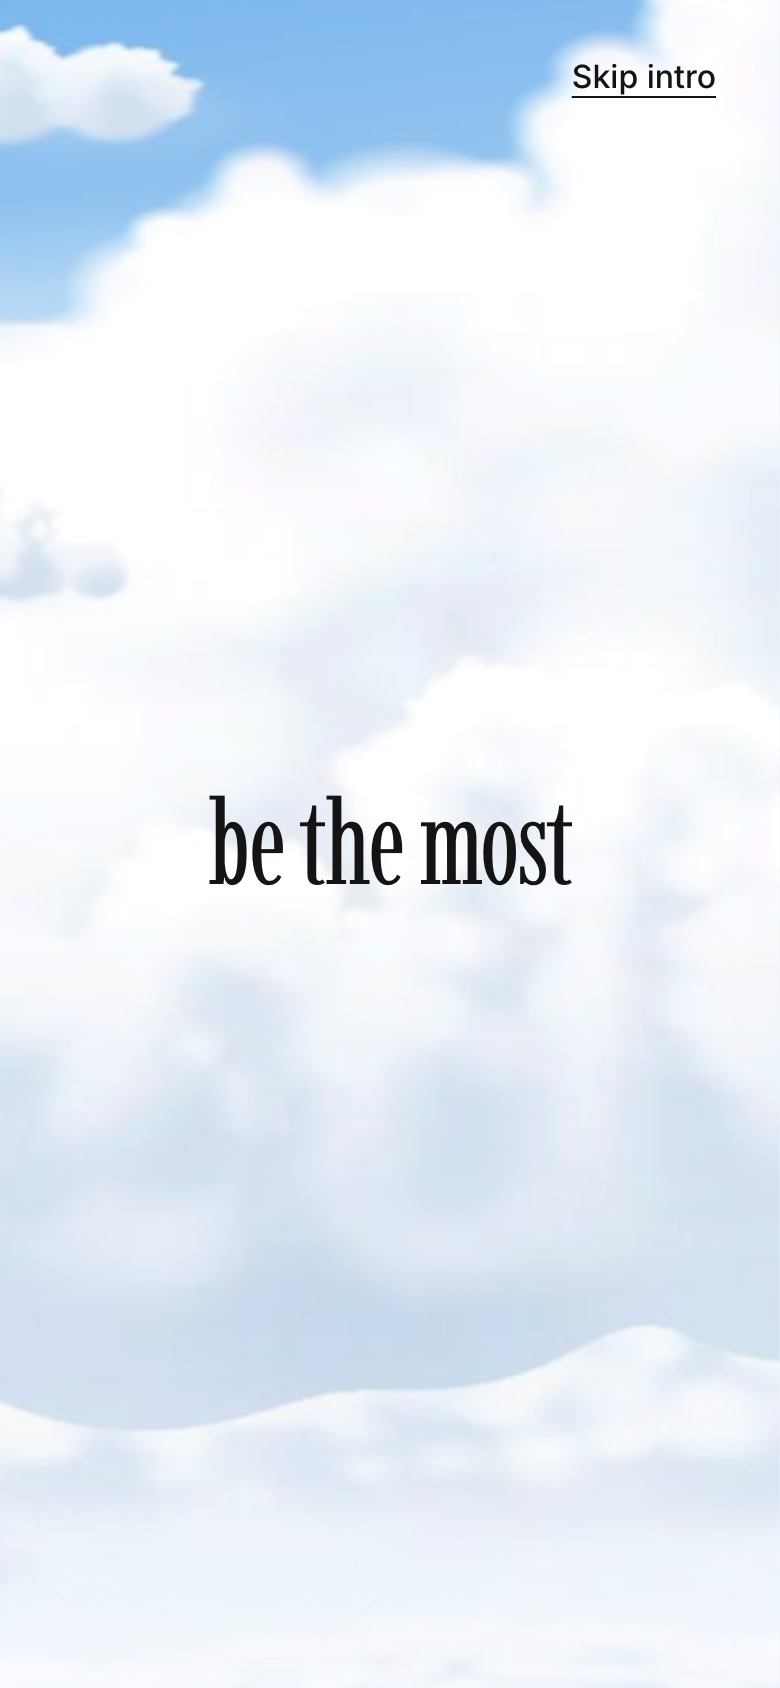
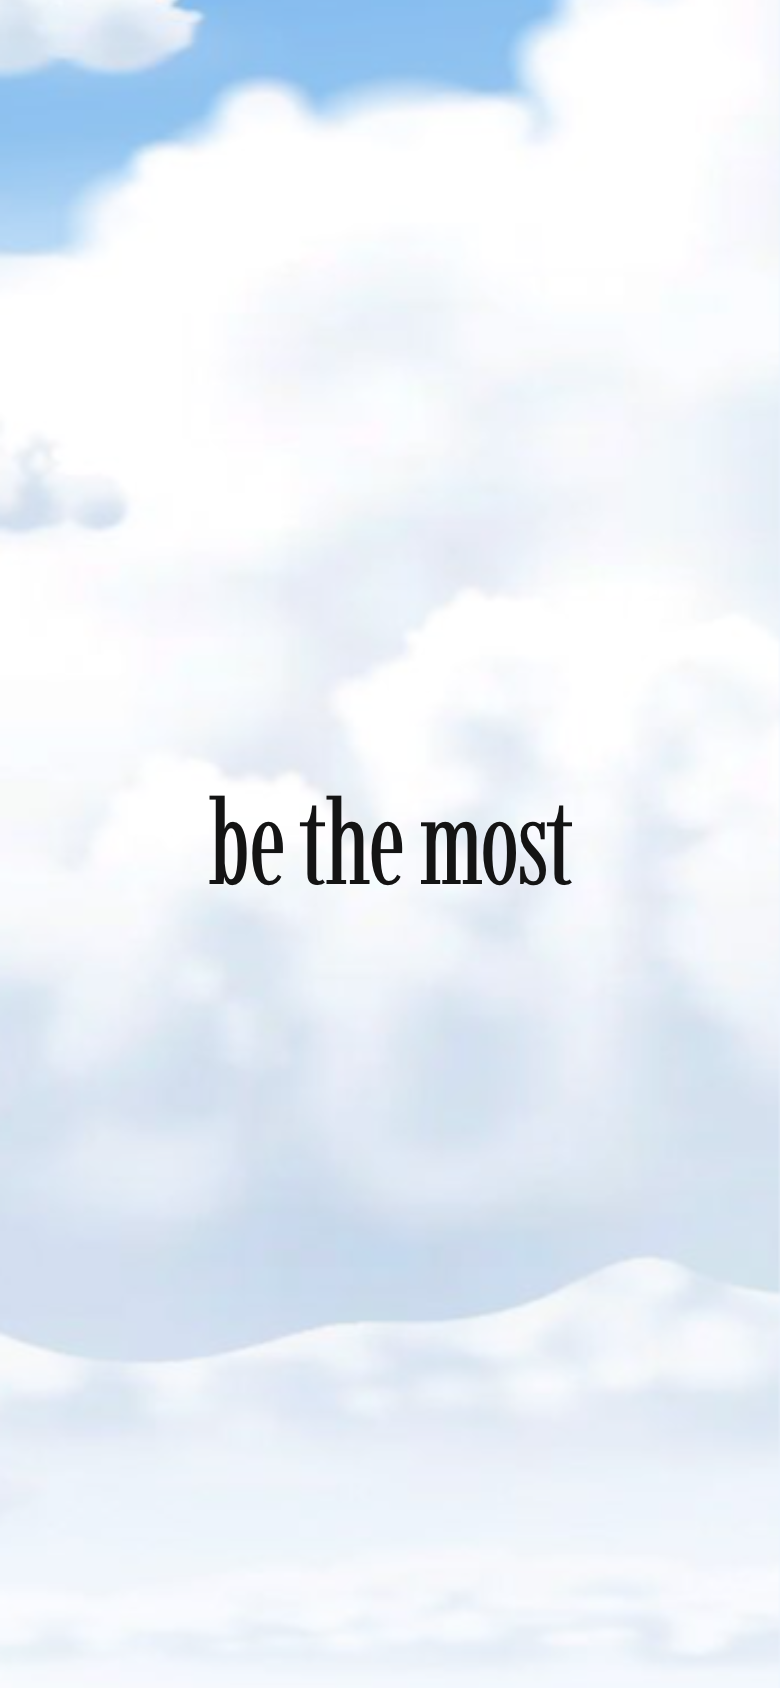
Intro: scroll-tied text, cursor tracking, closer clouds, swoop into hero

diff --git a/src/scroll.js b/src/scroll.js
@@ -9,17 +9,32 @@ gsap.registerPlugin(ScrollTrigger);
 const mix = (a, b, t) => a + (b - a) * t;
 const clamp01 = (t) => Math.min(1, Math.max(0, t));
 
+// The move from the clouds to the hero is not a straight line:
+// - the camera backs away fast at first, so the clouds rush off, then slows down
+// - it lifts its nose early, which keeps the far edge of the ground out of sight
+// - it drops with a soft start and a soft landing, so the hills rise in from the bottom at the end
+function swoop(from, to, t) {
+  const soft = t * t * (3 - 2 * t);
+  const fastThenSlow = 1 - Math.pow(1 - t, 3);
+  return {
+    rotX: mix(from.rotX, to.rotX, fastThenSlow),
+    y: mix(from.y, to.y, soft),
+    z: mix(from.z, to.z, fastThenSlow),
+  };
+}
+const straight = (from, to, t) => ({ rotX: mix(from.rotX, to.rotX, t), y: mix(from.y, to.y, t), z: mix(from.z, to.z, t) });
+
 // One entry per stretch of scroll. Later screens add entries here.
 const SEGMENTS = [
   // Intro, pinned: the camera sinks through the clouds while the four parts take turns.
-  { trigger: '#intro', start: 'top top', end: 'bottom bottom', from: POSES.introStart, to: POSES.introEnd, onProgress: showIntroPart },
-  // Intro scrolls away: the camera pulls back, the clouds fly off and the full scene with the hills appears.
-  { trigger: '#intro', start: 'bottom bottom', end: 'bottom top', from: POSES.introEnd, to: POSES.hero },
+  { trigger: '#intro', start: 'top top', end: 'bottom bottom', from: POSES.introStart, to: POSES.introEnd },
+  // Intro scrolls away: the camera pulls back fast and drops, the clouds fly off and the hills rise into view.
+  { trigger: '#intro', start: 'bottom bottom', end: 'bottom top', from: POSES.introEnd, to: POSES.hero, path: swoop },
 ];
 const progress = SEGMENTS.map(() => 0);
 let nudge = 0; // small extra progress used by the idle "dip" in intro.js
 
-// Cursor tracking at the hero: the camera leans a little toward the pointer.
+// Cursor tracking: the camera leans a little toward the pointer, in the intro and at the hero.
 // Same amounts the Spline file used before the site took over the camera.
 const TRACK = { slide: 120, lift: 30, tilt: 0.021, turn: 0.044, ease: 0.05 };
 const pointer = { x: 0, y: 0, targetX: 0, targetY: 0 }; // -1..1 from the screen center
@@ -30,8 +45,8 @@ function trackPointer() {
   pointer.y += (pointer.targetY - pointer.y) * TRACK.ease;
   applyCamera();
   const settled = Math.abs(pointer.targetX - pointer.x) < 0.001 && Math.abs(pointer.targetY - pointer.y) < 0.001;
-  // Stop the loop when the camera has caught up or the hero is not on screen.
-  if (settled || progress[1] === 0) { tracking = false; return; }
+  // Stop the loop when the camera has caught up.
+  if (settled) { tracking = false; return; }
   requestAnimationFrame(trackPointer);
 }
 
@@ -39,7 +54,7 @@ function onPointerMove(event) {
   if (event.pointerType === 'touch') return;
   pointer.targetX = (event.clientX / window.innerWidth) * 2 - 1;
   pointer.targetY = (event.clientY / window.innerHeight) * 2 - 1;
-  if (!tracking && progress[1] > 0) { tracking = true; requestAnimationFrame(trackPointer); }
+  if (!tracking) { tracking = true; requestAnimationFrame(trackPointer); }
 }
 
 function applyCamera() {
@@ -48,17 +63,18 @@ function applyCamera() {
   progress.forEach((value, i) => { if (value > 0) index = i; });
   const segment = SEGMENTS[index];
   const t = clamp01(progress[index] + (index === 0 ? nudge : 0));
-  // Cursor tracking fades in as the hero arrives (0 during the intro, full at the hero).
-  const follow = progress[1];
+  // Cursor tracking runs through the intro and the hero alike.
+  const follow = 1;
+  const at = (segment.path || straight)(segment.from, segment.to, t);
   setCameraPose({
-    rotX: mix(segment.from.rotX, segment.to.rotX, t) - pointer.y * TRACK.tilt * follow,
-    y: mix(segment.from.y, segment.to.y, t) - pointer.y * TRACK.lift * follow,
-    z: mix(segment.from.z, segment.to.z, t),
+    rotX: at.rotX - pointer.y * TRACK.tilt * follow,
+    y: at.y - pointer.y * TRACK.lift * follow,
+    z: at.z,
     dx: pointer.x * TRACK.slide * follow,
     rotY: -pointer.x * TRACK.turn * follow,
   });
   // The static image slides the same way, for phones and before the scene has loaded.
-  setFallbackShift(clamp01((progress[0] * 2.8 + progress[1]) / 3.8)); // weighted by scroll length
+  setFallbackShift(clamp01((progress[0] * 4.4 + progress[1]) / 5.4)); // weighted by scroll length
 }
 
 // Lets intro.js push the camera a little along its path and back.
@@ -67,18 +83,38 @@ export function setCameraNudge(value) {
   applyCamera();
 }
 
-// Intro text: four parts, one visible at a time. CSS does the animation (intro.css);
-// this only says which part is active, which are already passed and which still wait.
-let activePart = -1;
-function showIntroPart(t) {
-  const parts = document.querySelectorAll('.intro__part');
-  const index = Math.min(parts.length - 1, Math.floor(t * parts.length));
-  if (index === activePart) return;
-  activePart = index;
-  parts.forEach((part, i) => {
-    part.classList.toggle('is-active', i === index);
-    part.classList.toggle('is-before', i < index);
+// Intro text: four parts, one visible at a time, tied to scroll distance.
+// Each part owns one equal stretch of the pinned scroll: it rises in over the first 28%,
+// rests, then drifts up and fades slowly over the last 42%. The next part only starts
+// once the old one is gone, so a part cannot be skipped without being seen leaving.
+const PART = { in: 0.28, outStart: 0.58, out: 0.42, shift: 22, scale: 0.98, smoothing: 0.8 };
+
+function buildIntroText() {
+  const parts = gsap.utils.toArray('.intro__part');
+  if (!parts.length) return;
+  const timeline = gsap.timeline({
+    defaults: { overwrite: false },
+    // smoothing: the text takes 0.8 s to catch up with the scrollbar, so a fast flick still plays each change
+    scrollTrigger: { trigger: '#intro', start: 'top top', end: 'bottom bottom', scrub: PART.smoothing },
   });
+  parts.forEach((part, i) => {
+    const last = i === parts.length - 1;
+    if (i === 0) {
+      gsap.set(part, { opacity: 1 });
+    } else {
+      timeline.fromTo(part,
+        { opacity: 0, yPercent: PART.shift, scale: PART.scale },
+        { opacity: 1, yPercent: 0, scale: 1, duration: PART.in, ease: 'power2.out' },
+        i + 0.02);
+    }
+    if (!last) {
+      timeline.to(part,
+        { opacity: 0, yPercent: -PART.shift, scale: PART.scale, duration: PART.out, ease: 'power1.in' },
+        i + PART.outStart);
+    }
+  });
+  // Pad the timeline so the last part rests until the intro unpins.
+  timeline.to({}, { duration: 0.001 }, parts.length - 0.001);
 }
 
 export function initScroll() {
@@ -87,15 +123,16 @@ export function initScroll() {
 
   window.addEventListener('pointermove', onPointerMove, { passive: true });
 
-  // Two frames later, so part 1 eases in instead of just being there.
-  requestAnimationFrame(() => requestAnimationFrame(() => {
+  buildIntroText();
+  {
     SEGMENTS.forEach((segment, i) => {
       const update = (self) => {
         progress[i] = self.progress;
         if (segment.onProgress) segment.onProgress(self.progress);
         applyCamera();
       };
-      ScrollTrigger.create({ trigger: segment.trigger, start: segment.start, end: segment.end, scrub: true, onUpdate: update, onRefresh: update });
+      // scrub 0.5: the camera trails the scrollbar by half a second, which gives it some weight
+      ScrollTrigger.create({ trigger: segment.trigger, start: segment.start, end: segment.end, scrub: 0.5, onUpdate: update, onRefresh: update });
     });
-  }));
+  }
 }

diff --git a/src/styles/sections/intro.css b/src/styles/sections/intro.css
@@ -78,6 +78,7 @@
 }
 
 @keyframes intro-fade-in { from { opacity: 0; } to { opacity: 1; } }
+@keyframes intro-rise-in { from { opacity: 0; transform: translateY(var(--shift-intro-part)); } to { opacity: 1; transform: none; } }
 @keyframes hint-wheel { 0% { transform: translateY(0); opacity: 1; } 70% { transform: translateY(var(--size-hint-travel)); opacity: 0; } 100% { transform: translateY(0); opacity: 0; } }
 @keyframes hint-swipe { 0% { transform: translateY(var(--size-hint-travel)); opacity: 0; } 30% { opacity: 1; } 100% { transform: translateY(0); opacity: 0; } }
 
@@ -88,25 +89,13 @@
 
   .js .intro__lines { display: grid; width: 100%; font-size: var(--text-display); }
 
-  /* Every part sits in the same spot. Waiting parts rest just below, passed parts just above. */
-  .js .intro__part {
-    grid-area: 1 / 1;
-    align-self: center;
-    opacity: 0;
-    transform: translateY(var(--shift-intro-part)) scale(var(--scale-intro-part));
-    transition:
-      opacity var(--duration-part-out) var(--ease-exit),
-      transform var(--duration-part-out) var(--ease-exit);
-    will-change: transform, opacity;
-  }
-  .js .intro__part.is-before { transform: translateY(calc(var(--shift-intro-part) * -1)) scale(var(--scale-intro-part)); }
-  .js .intro__part.is-active {
-    opacity: 1;
-    transform: none;
-    transition:
-      opacity var(--duration-part-in) var(--ease-enter) var(--delay-part-in),
-      transform var(--duration-part-in) var(--ease-enter) var(--delay-part-in);
-  }
+  /* Every part sits in the same spot. scroll.js fades them in and out with scroll;
+     until it runs, only the first part shows. */
+  .js .intro__part { grid-area: 1 / 1; align-self: center; opacity: 0; will-change: transform, opacity; }
+  .js .intro__part:first-child { opacity: 1; }
+
+  /* On load the text block eases in once */
+  .js .intro__lines { animation: intro-rise-in var(--duration-part-in) var(--ease-enter) var(--delay-part-in) backwards; }
 
   /* Hint fades in after part 1 on a first visit */
   .js:not(.intro-seen) .intro__hint-inner {

diff --git a/src/styles/tokens.css b/src/styles/tokens.css
@@ -58,15 +58,13 @@
   --duration-fast: 150ms;
   --duration-base: 300ms;
   --duration-slow: 600ms;
-  --duration-part-in: 700ms;               /* an intro part arriving */
-  --duration-part-out: 350ms;             /* an intro part leaving (shorter: exits matter less) */
-  --delay-part-in: 320ms;                 /* the new part waits for the old one to clear */
+  --duration-part-in: 700ms;               /* intro text easing in on load */
+  --delay-part-in: 200ms;
   --duration-intro-hint-fade: 600ms;
-  --duration-intro-hint-delay: 1820ms;     /* part 1 arrival (0.32 + 0.7 s) + 0.8 s */
+  --duration-intro-hint-delay: 1700ms;     /* text arrival (0.2 + 0.7 s) + 0.8 s */
   --duration-hint-loop: 1600ms;            /* wheel dot / swipe loop */
   --ease-standard: cubic-bezier(0.2, 0, 0, 1);
   --ease-enter: cubic-bezier(0.22, 1, 0.36, 1);    /* fast start, soft landing */
-  --ease-exit: cubic-bezier(0.32, 0, 0.67, 0);    /* soft start, quick leave */
 
   /* Layers */
   --z-scene: 0;
@@ -84,9 +82,8 @@
   --size-visually-hidden: 1px;             /* skip link: present for screen readers, invisible until focused */
   --measure-title: 16ch;
   --content-max: 1120px;
-  --length-intro-scroll: 280vh;            /* scroll distance while the intro is pinned (4 parts x 70vh) */
+  --length-intro-scroll: 440vh;            /* scroll distance while the intro is pinned (4 parts x 110vh) */
   --shift-intro-part: 0.25em;              /* how far a part travels in and out */
-  --scale-intro-part: 0.98;
   --size-scene-fallback: 200%;             /* image is taller than the screen so it can slide with scroll */
 
   /* Breakpoints (documentation only: CSS variables cannot be used inside @media) */

diff --git a/src/scene.js b/src/scene.js
@@ -13,8 +13,8 @@ const REQUIRED_OBJECTS = [
 // y is the camera height, z is how far forward it stands (smaller = closer to the clouds).
 // Later screens add entries here.
 export const POSES = {
-  introStart: { rotX: 0, y: 7000, z: 0 },     // close to the clouds, their tops at the bottom edge
-  introEnd: { rotX: 0.05, y: 3400, z: 0 },    // sunk into the cloud layer
+  introStart: { rotX: 0, y: 7000, z: -1800 }, // right up against the clouds, their tops at the bottom edge
+  introEnd: { rotX: 0.05, y: 3400, z: -1800 }, // sunk into the cloud layer
   hero: { rotX: 0.297, y: 226, z: 3733 },     // pulled back and down: the full scene, hills along the bottom
 };
 

diff --git a/design/decisions.md b/design/decisions.md
@@ -39,3 +39,11 @@
 - Back to the earlier speed: in 0.7 s, out 0.35 s, 0.32 s wait. The softer curves, shorter travel (0.25em) and lighter scaling (0.98) stay.
 - Cursor tracking is back at the hero, now driven by the site (scroll.js), not the Spline file. It fades in as the hero arrives and is off during the intro, on touch and with reduced motion. Amounts match the old Spline values: 120 units sideways, 30 up and down, about 1.2 and 2.5 degrees of lean.
 - Skip intro is no longer drawn. It stays in the page for screen readers and keyboard users and shows (top right) only while focused, so keyboard-only sighted users can still see where focus is. This changes the CLAUDE.md rule 'visible and focusable from the first frame' to 'present and focusable from the first frame'; CLAUDE.md itself is not edited.
+
+## 2026-11-16 · Intro text tied to scroll
+- Problem: a part change was a short timed animation fired at a scroll point, so a quick scroll could pass a part before it was read.
+- Now each part's arrival and exit follow scroll distance. Pinned scroll grew from 280vh to 440vh (110vh per part). Exit takes 42% of a step, arrival 28%. Text trails the scrollbar by 0.8 s.
+- Cursor tracking now runs during the intro as well as the hero.
+- Removed tokens no longer used: --duration-part-out, --ease-exit, --scale-intro-part. --delay-part-in is now the load delay (0.2 s).
+- Intro camera stands closer to the clouds (z 0 to z -1800).
+- Intro to hero is now a swoop, not a straight line: fast pull-back that slows, early lift of the camera's nose, and a soft drop so the hills rise in from the bottom. A first try that tipped the camera forward showed the far edge of the Ground plane, so it was dropped. The camera trails the scrollbar by 0.5 s.

diff --git a/design/page-spec.md b/design/page-spec.md
@@ -6,7 +6,7 @@ Priority markers (0 to 5) show the order of attention, one per screen.
 
 ## Screen 0 · Intro
 
-Scene: sky with big clouds close to the camera. The clouds drift, and move up through the frame as the page scrolls down. No nav.
+Scene: sky with big clouds close to the camera. The clouds drift, and move up through the frame as the page scrolls down. The camera leans slightly toward the cursor. No nav.
 
 - Text, very large, shown one part at a time:
   1. In a world
@@ -19,8 +19,8 @@ Scene: sky with big clouds close to the camera. The clouds drift, and move up th
 Motion:
 - On load: part 1 eases in. Then the page waits.
 - Trigger: scroll only (wheel, swipe, arrow keys, Space). No timer advances the page.
-- The intro stays pinned while the reader scrolls through four equal steps. Each step shows the next part. Only one part is visible at a time.
-- Part change: the old part slides up and fades out (0.35 s), the new part rises in from below and settles (0.7 s). Scrolling up plays it the other way round.
+- The intro stays pinned while the reader scrolls through four equal steps of 1.1 screens each. Only one part is visible at a time.
+- Part change follows the scroll, not a timer. Within its step a part rises in (first 28%), rests, then drifts up and fades slowly (last 42%). The next part starts only when the old one is gone. Scrolling up plays it backwards. The text trails the scrollbar by 0.8 s so a fast flick still shows every change.
 - The camera descends through the clouds with scroll progress. Scrolling up reverses it.
 - Hint fades in 0.8 s after part 1, wheel dot loops, hides on first scroll.
 - After 6 s idle: the camera dips so the hero headline peeks above the bottom edge, then settles back.
